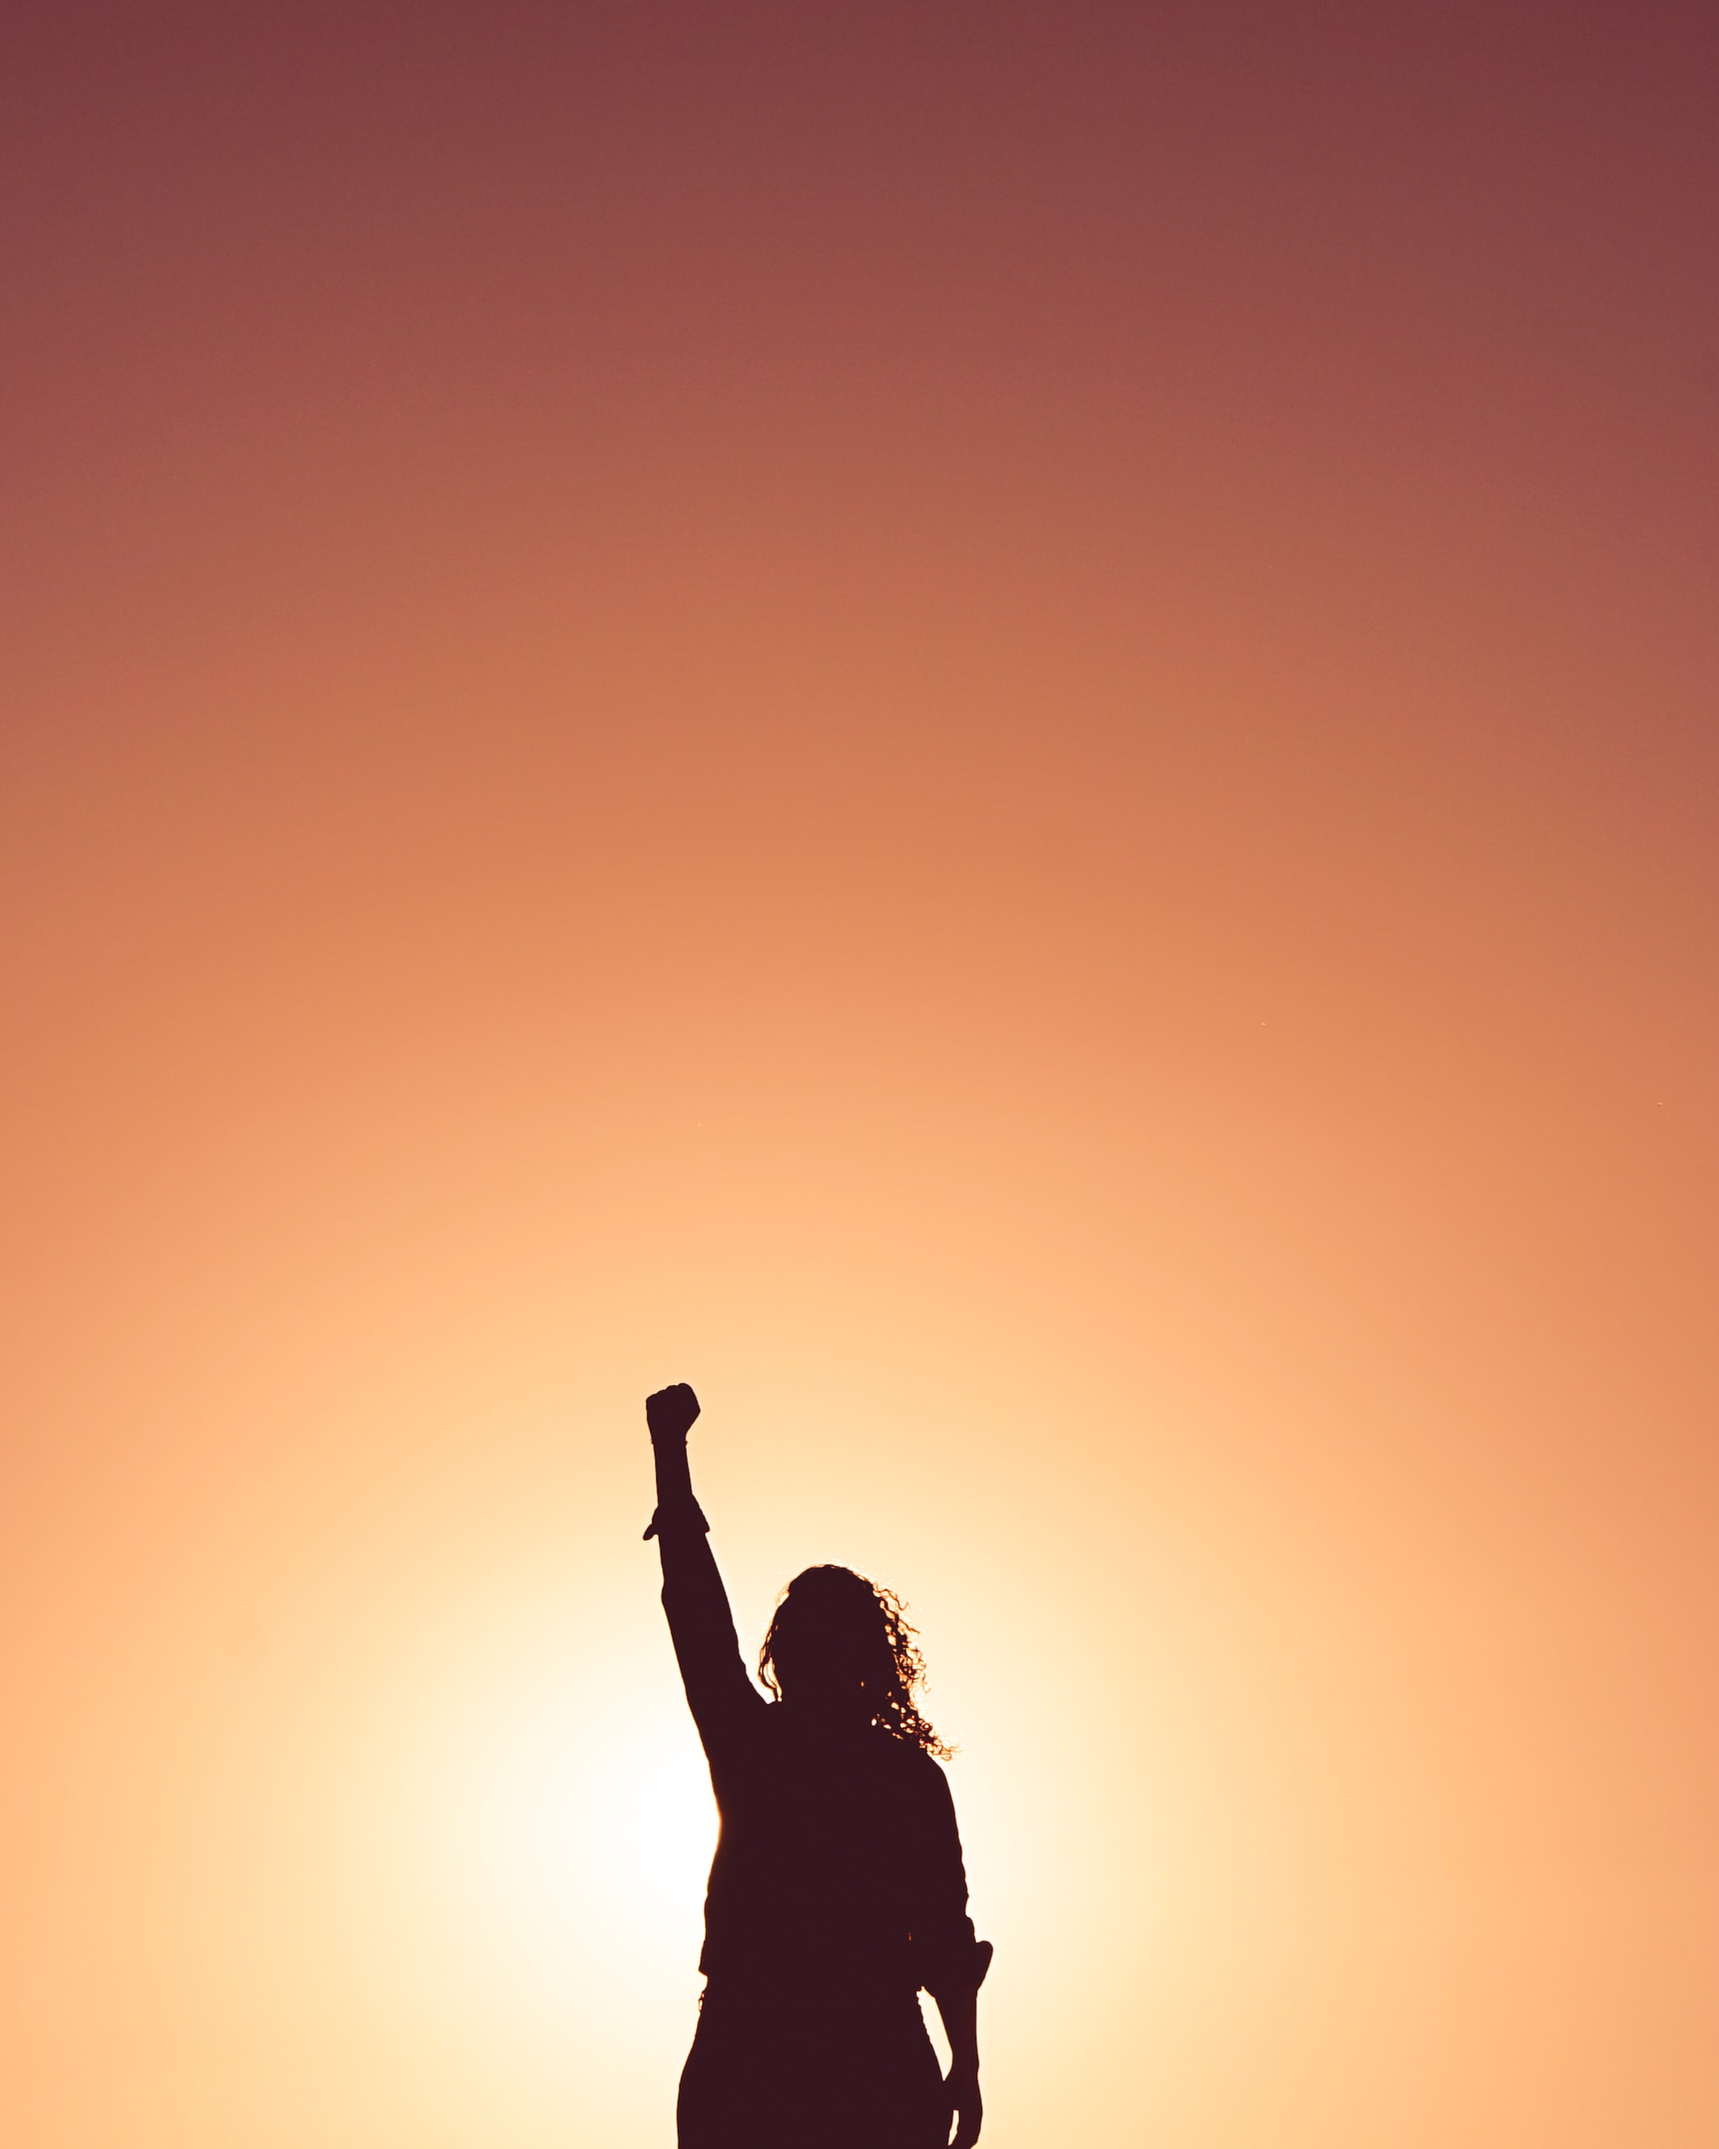
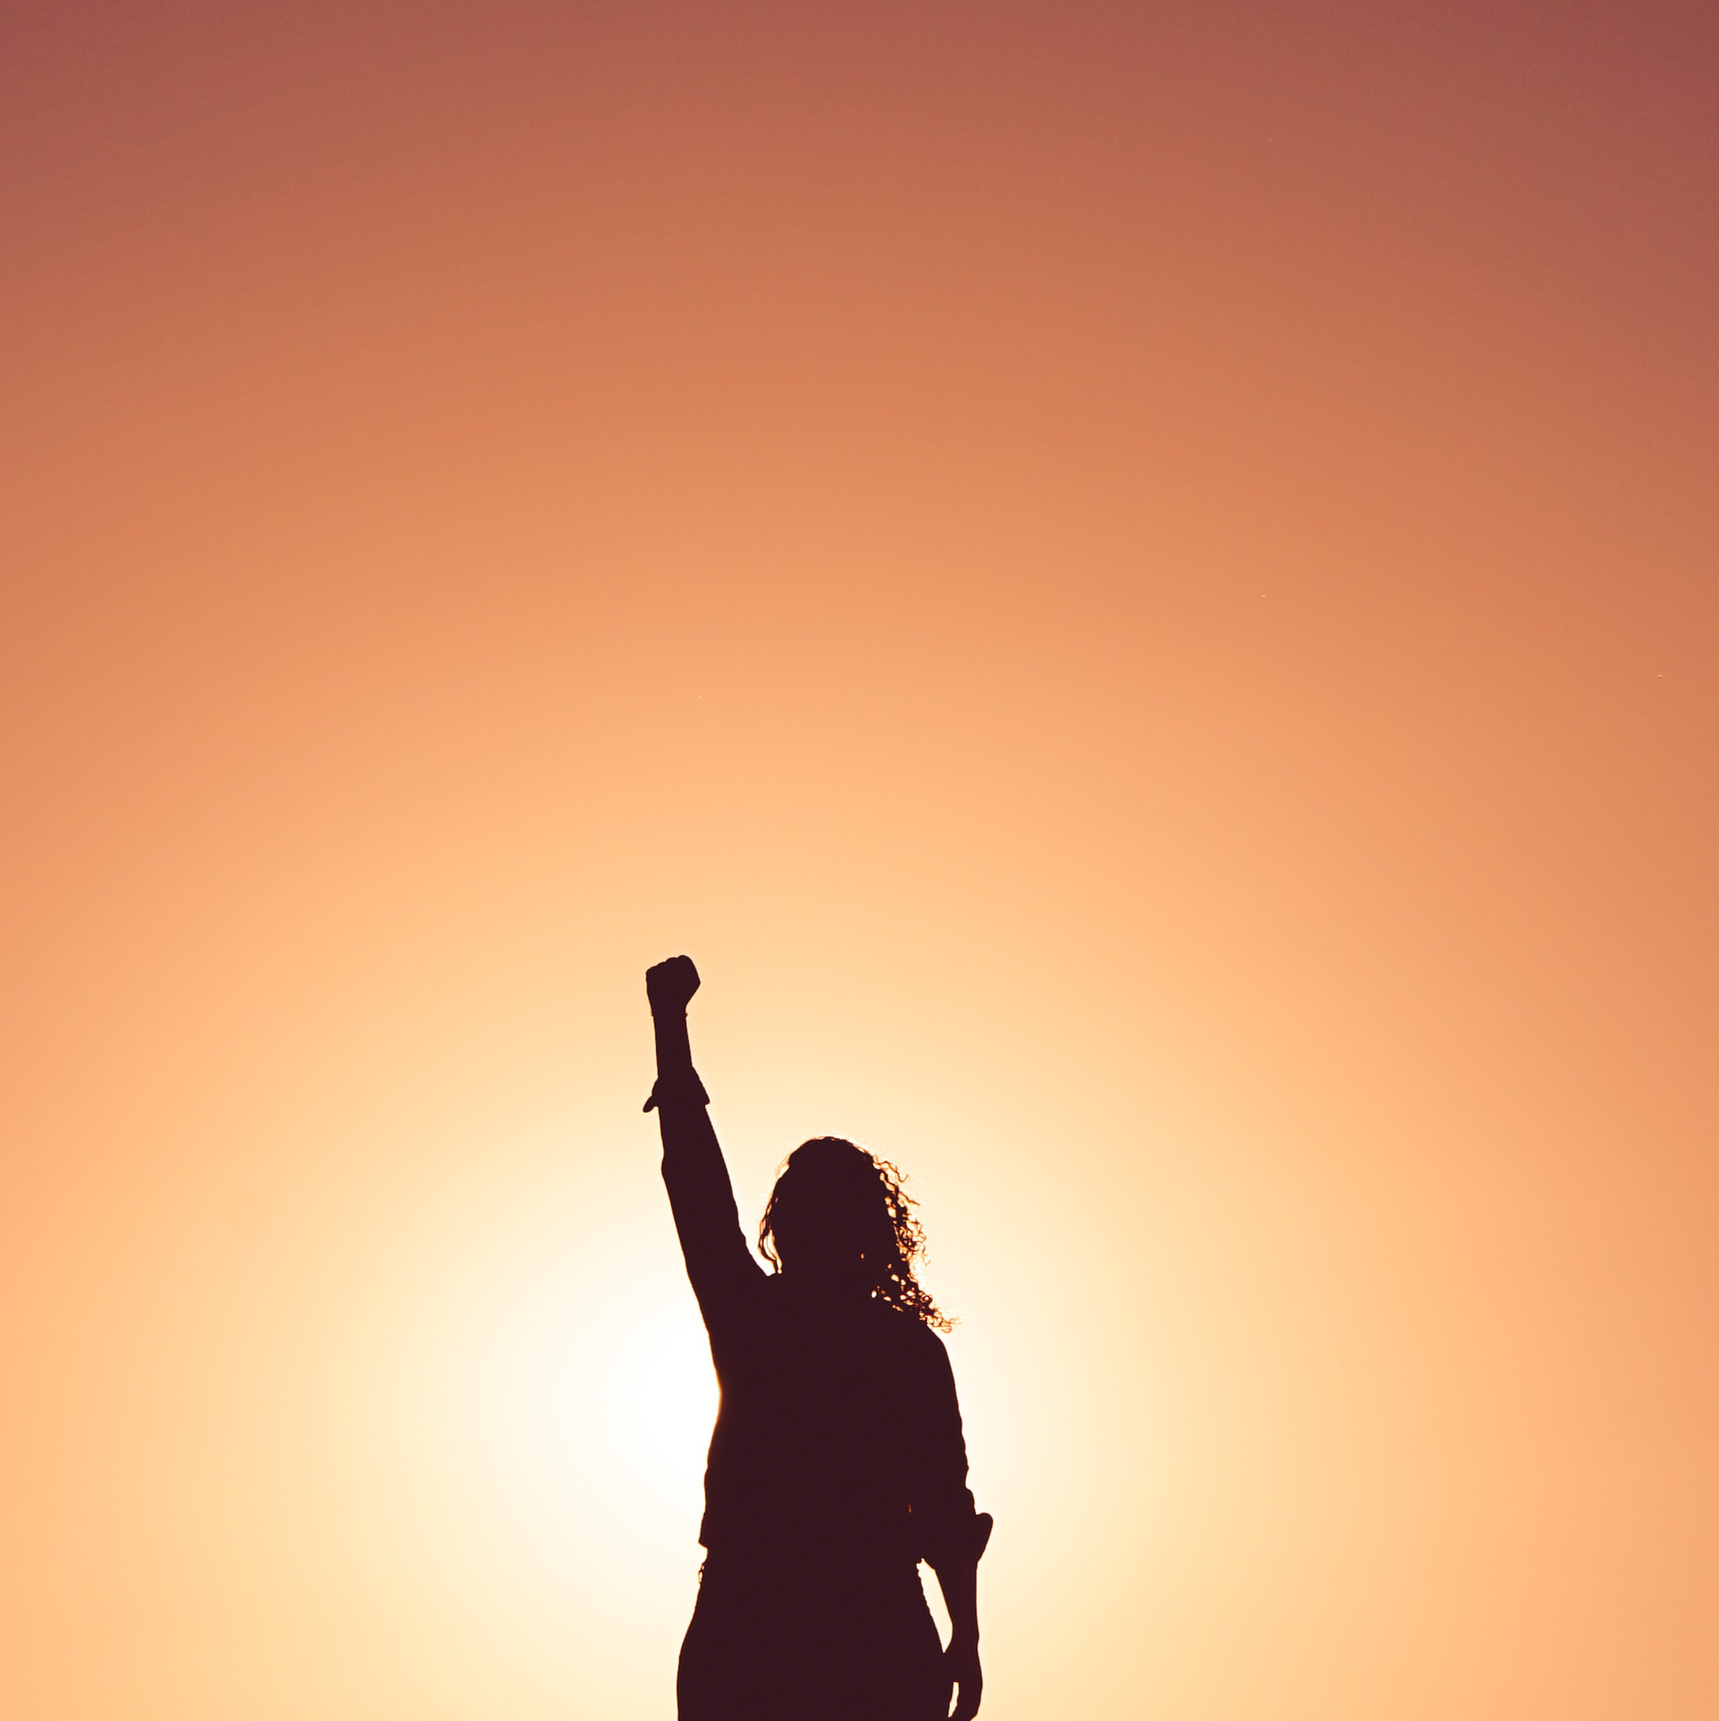
n

diff --git a/assets/css/custom.css b/assets/css/custom.css
@@ -6,7 +6,7 @@
 /* If you want to add a background image to the home page banner instead of using a solid color.
 Just un comment the #banner rule below. */
 #banner {
-  background-image: url(../../images/NewBanner.jpg);
+  background-image: url(../../images/NewBanner2.jpg);
   background-size: cover;
   color: rgba(255, 255, 255, 0.75);
   text-shadow: 1px 1px 15px #333;
